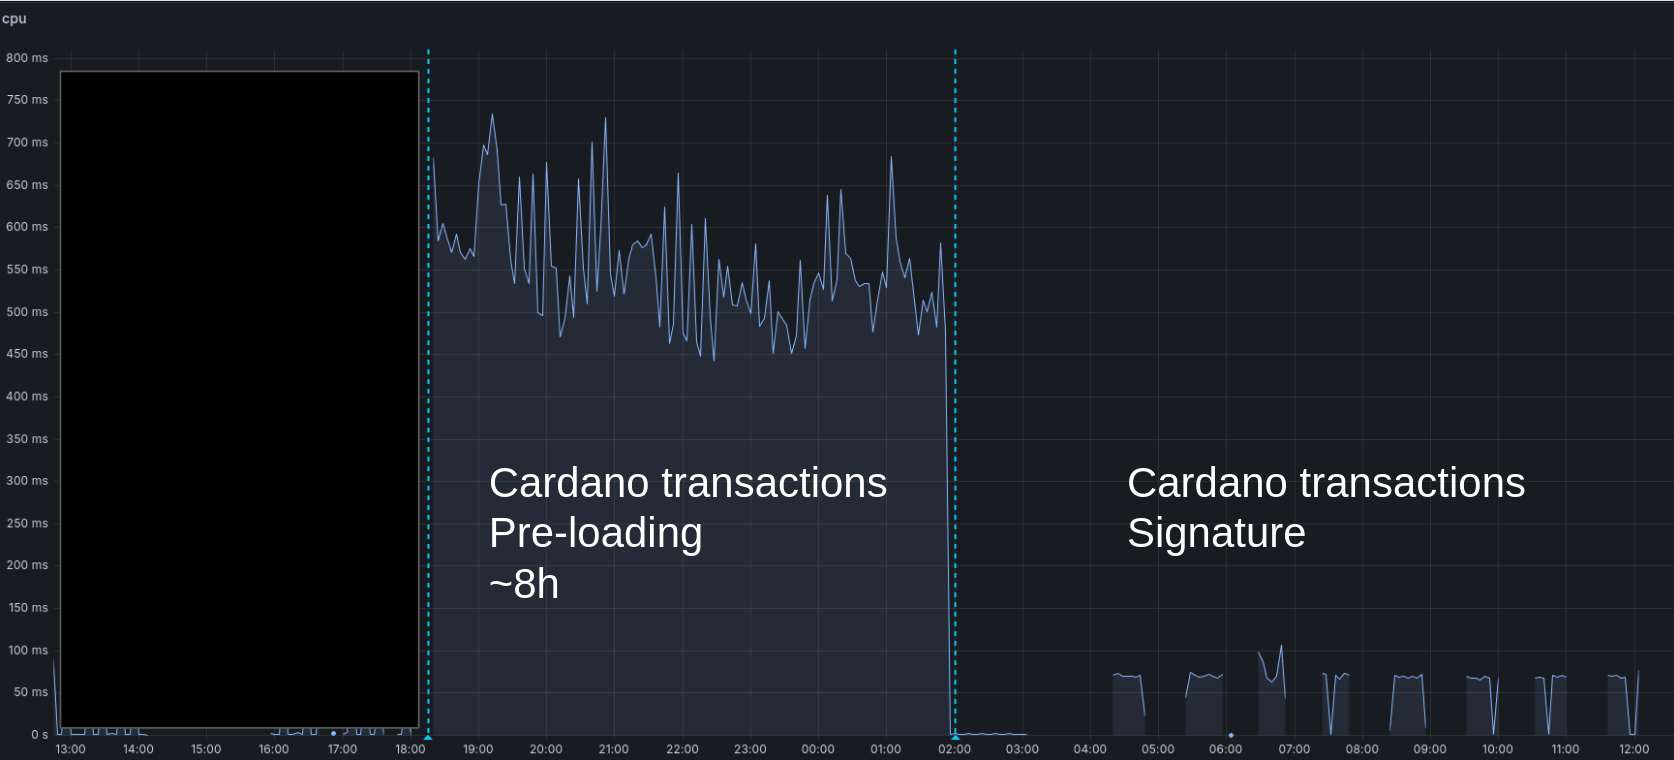
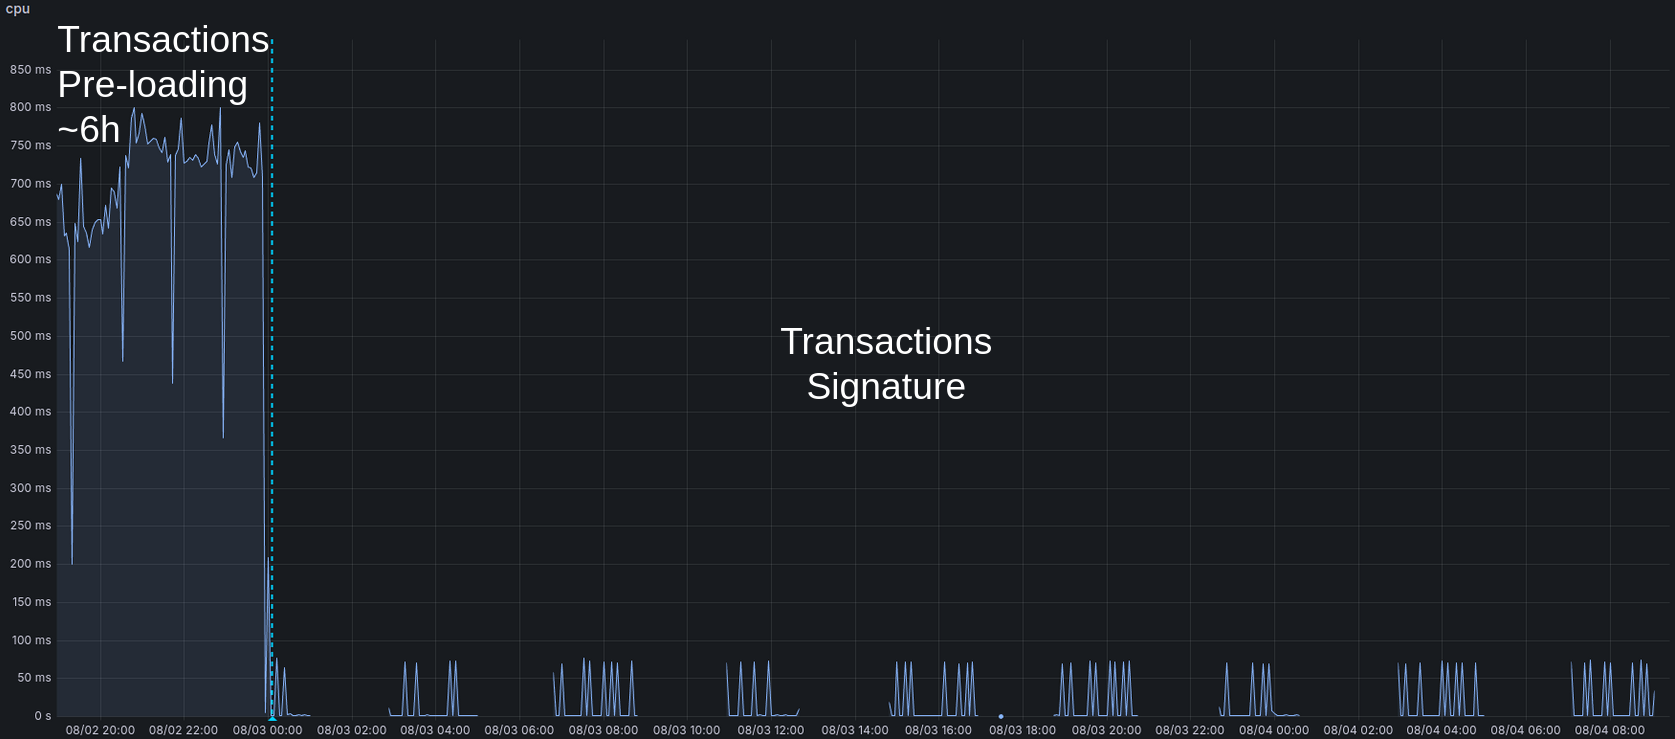
docs: update signer footprint for Cardano transactions

diff --git a/docs/website/root/manual/getting-started/run-signer-node.md b/docs/website/root/manual/getting-started/run-signer-node.md
@@ -72,9 +72,9 @@ Thus, there are no extra requirements on the recommended hardware than for runni
 Here are some figures about the Mithril signer node running on the `mainnet` Cardano network:
 
 - It is **idle** most of the time with a very low **CPU** usage of less than `5%`.
-- It is using less than `700MB` of **resident memory**.
+- It is using less than `400MB` of **resident memory**.
 - It sends to the aggregator a **new signature** roughly every `10 minutes` and a **new registration** every `5 days` (`<1MB` per day).
-- When launched for the **first time**, a **pre-loading** phase occurs where the Cardano transactions will be imported with a spike of `50-70%` CPU on one core for `~8 hours`.
+- When launched for the **first time**, a **pre-loading** phase occurs where the Cardano transactions will be imported with a spike of `50-70%` CPU on one core for `~6 hours`.
 - When signing for the **first time**, the Cardano database digest cache needs to be built with a spike of `50-70%` CPU on one core for `~1 hour`.
 - Also, the full Cardano database files will be **read from disk once** during this cache building process.
 - Only **stake distributions**, **Mithril keys** and some **cache** (for the **Cardano database** and the **Cardano transactions**) are stored on the disk (`<200MB`).
